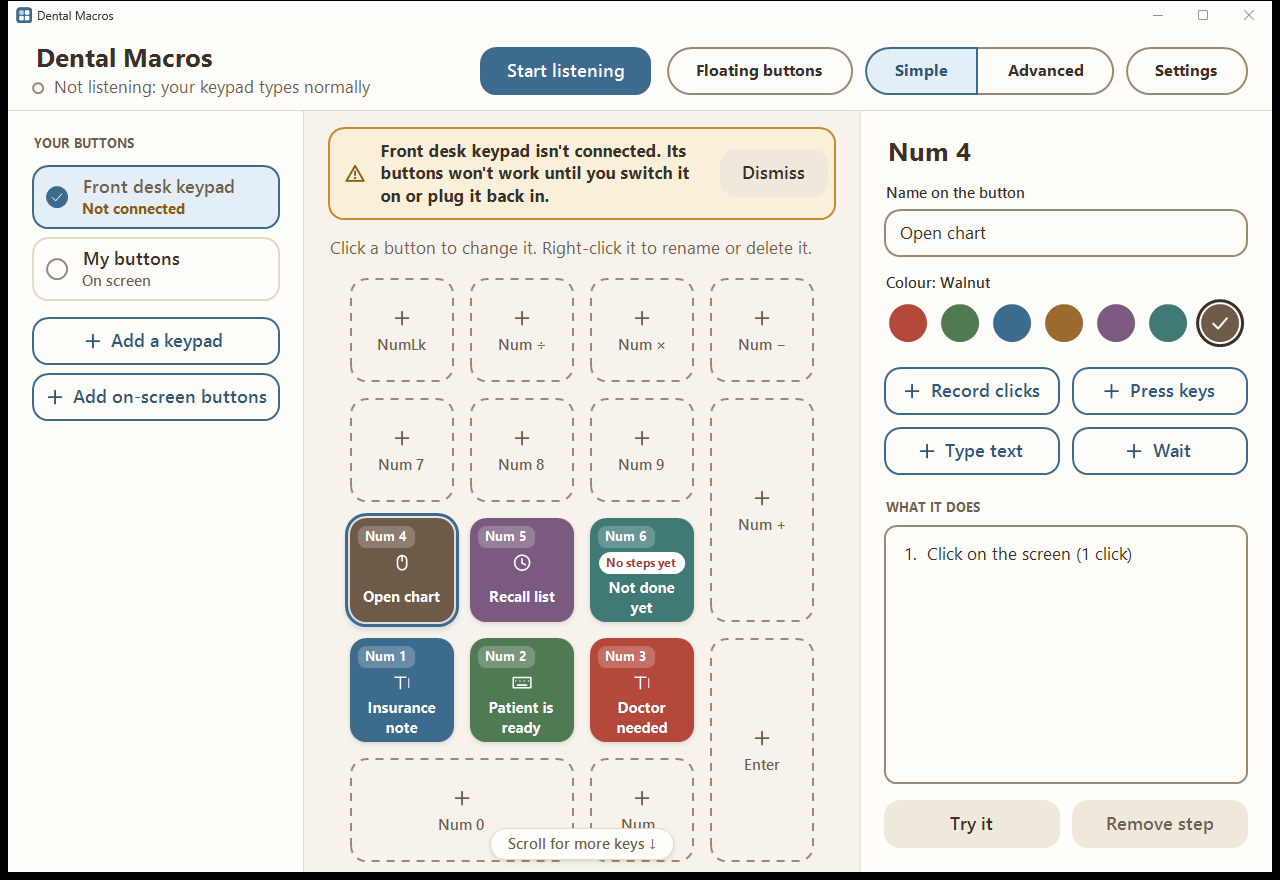
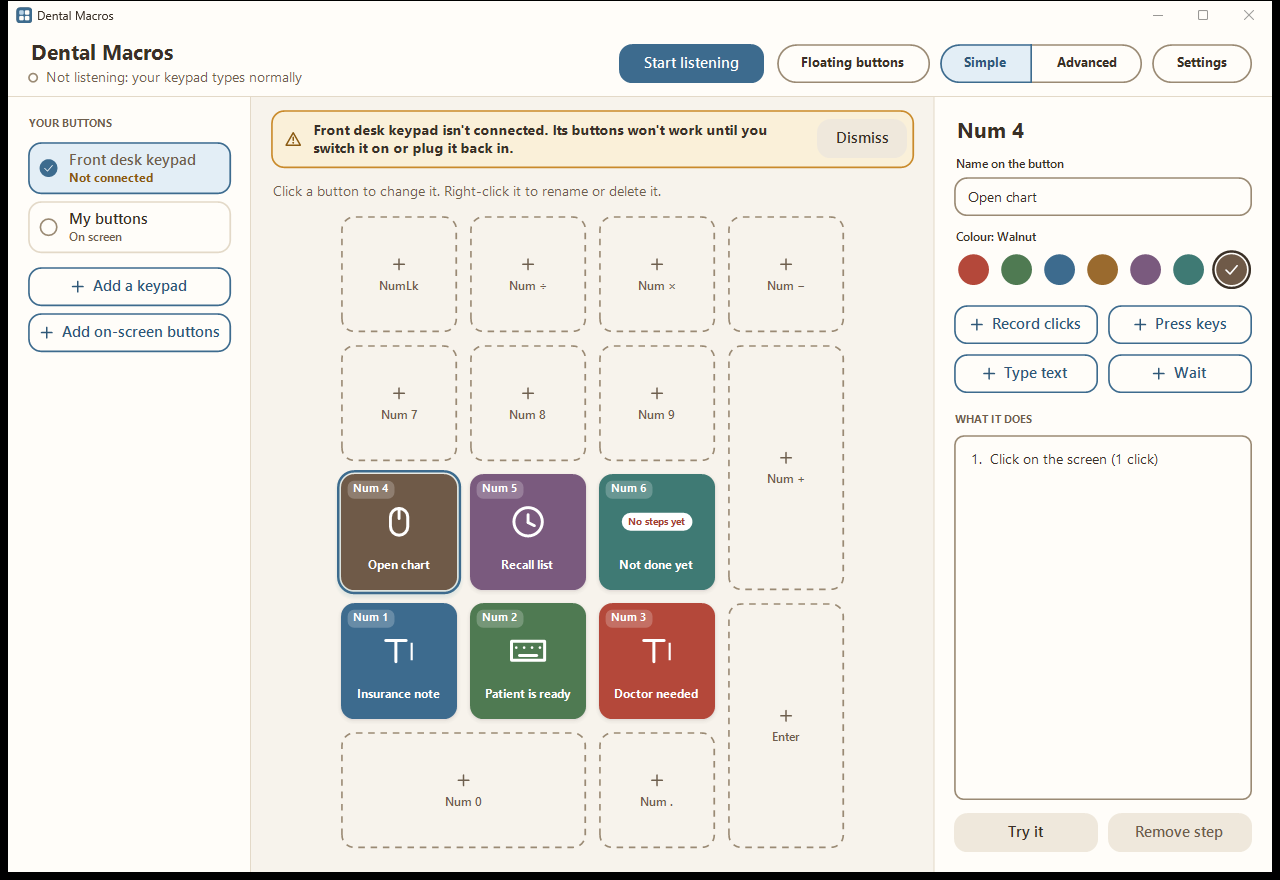
Draw the UI smaller; version 0.9.5 beta
The design system's full sizes read too big on an office PC. The app now
draws them at 82% (kUiSize in src/theme.h), so text and icons are back to
the size they were before the redesign and every gap and button shrinks
with them; the look is unchanged.

- The main window still opens at 1280 x 880, so the keypad gets the room
  and fits without scrolling.
- The floating buttons keep their own 30-46px sizes.
- Key icons are about a third of the key again; key names are smaller,
  and get room for a second line only when they need it.
- README screenshots and docs/REDESIGN.md updated.

Claude-Session: https://claude.ai/code/session_016wSNeBwmZs1RpAEdWAksV8

diff --git a/src/app.cpp b/src/app.cpp
@@ -563,9 +563,15 @@ bool MainWindow::create(HINSTANCE inst, int showCmd) {
 
     // Centre on the primary monitor's work area, and never larger than it -
     // the default size is bigger than a small laptop screen at 150% scaling.
+    // The window opens at its full size even though what's inside is drawn
+    // smaller (kUiSize), so the keypad gets the room.
     RECT work = workAreaNear(nullptr);
-    int w = std::min<int>(S(1280), work.right - work.left);
-    int h = std::min<int>(S(880), work.bottom - work.top);
+    int w = 0, h = 0;
+    {
+        const FullSize fullSize;
+        w = std::min<int>(S(1280), work.right - work.left);
+        h = std::min<int>(S(880), work.bottom - work.top);
+    }
     int sx = work.left + ((work.right - work.left) - w) / 2;
     int sy = work.top + ((work.bottom - work.top) - h) / 2;
 
@@ -1215,7 +1221,7 @@ void MainWindow::layoutDeck() {
     int tileH = (availH - gap * (rows - 1)) / rows;
     // Always as many columns as fit across, though: a key cut off at the
     // side can't be scrolled to.
-    int side = std::max(std::min(S(104), tileW), std::min({tileW, tileH, S(160)}));
+    int side = std::max(std::min(S(92), tileW), std::min({tileW, tileH, S(160)}));
     int gridW = side * cols + gap * (cols - 1);
     const int gridH = side * rows + gap * (rows - 1);
     deckContentH_ = gridH;
@@ -1808,15 +1814,23 @@ void MainWindow::paintTile(Graphics& g, const DeckTile& tile,
         }
     }
 
-    // Top to bottom: the badge row, the icon (36px on a key with room for
-    // it), then two lines of label. On a small key the icon gives way first,
-    // so the name - what the key is for - always fits.
-    const float labelPx = r.Width >= Sf(150) ? 22.0f : r.Width >= Sf(110) ? 17.0f
-                                                                       : 15.0f;
-    const REAL lineH = Sf(labelPx * 1.3f);
+    // Top to bottom: the badge row, the icon (about a third of the key, as
+    // before the redesign), then two lines of label. On a small key the icon
+    // gives way first, so the name - what the key is for - always fits.
+    const float labelPx = r.Width >= Sf(150) ? 17.0f : r.Width >= Sf(110) ? 15.0f
+                                                                       : 14.0f;
+    const REAL lineH = Sf(labelPx * 1.4f);  // Segoe UI needs about 1.33
     const REAL top = r.Y + (kb->softwareOnly ? Sf(12) : Sf(8) + tagH + Sf(4));
-    const REAL room = r.GetBottom() - Sf(6) - lineH * 2 - Sf(4) - top;
-    const REAL isz = std::max(0.0f, std::min(Sf(36), room));
+    // Room for two lines of label only when the name needs them. drawText
+    // pads each side by about a sixth of the text size; measureText doesn't.
+    const std::wstring title = W(b->displayTitle());
+    const int lines = measureText(g, title, labelPx, true).Width + Sf(labelPx) * 0.4f <=
+                              r.Width - Sf(12)
+                          ? 1
+                          : 2;
+    const REAL room = r.GetBottom() - Sf(6) - lineH * lines - Sf(4) - top;
+    const REAL isz =
+        std::max(0.0f, std::min(std::min(r.Width, r.Height) * 0.34f, room));
     RectF iconBox(r.X + (r.Width - isz) / 2, top, isz, isz);
     if (isz < Sf(18)) iconBox = RectF(r.X + r.Width / 2, top, 0, 0);
     const bool unfinished = b->steps.empty() && !b->isDial();
@@ -1853,13 +1867,16 @@ void MainWindow::paintTile(Graphics& g, const DeckTile& tile,
         drawActionIcon(g, "scroll", iconBox, kWhite);
     }
 
-    // MessageButton labels are 22px bold; a key too narrow for that gets a
-    // smaller size, still bold, so two words still fit across it.
-    const REAL labelTop = iconBox.Height > 0 ? iconBox.GetBottom() + Sf(4) : top;
+    // Key labels are bold; a narrow key gets a smaller size so two words
+    // still fit across it.
+    // The "No steps yet" tag can be taller than the room left for an icon;
+    // the name still gets all of its lines.
+    const REAL labelTop =
+        std::max(top, std::min(iconBox.Height > 0 ? iconBox.GetBottom() + Sf(4) : top,
+                               r.GetBottom() - Sf(4) - lineH * lines));
     RectF label(r.X + Sf(6), labelTop, r.Width - Sf(12),
                 r.GetBottom() - Sf(4) - labelTop);
-    drawText(g, W(b->displayTitle()), label, labelPx, kWhite, Align::Center,
-             true, true, true);
+    drawText(g, title, label, labelPx, kWhite, Align::Center, true, true, true);
 }
 
 void MainWindow::paintDragGhost(Graphics& g) {

diff --git a/src/theme.h b/src/theme.h
@@ -50,10 +50,27 @@ struct Theme {
 const Theme& theme();
 
 // DPI. Set once at startup from the window's DPI.
-void setDpiScale(float s);
+//
+// The design system's sizes (17px body, 48px buttons) read large on an office
+// PC, so the app draws them at kUiSize of that: text and icons come out at the
+// size Dental Macros used before the redesign, and every gap and button
+// shrinks with them, so the look stays the same, only smaller. dpiScale(), S()
+// and Sf() all include it.
+constexpr float kUiSize = 0.82f;
+void setDpiScale(float s);   // s = window DPI / 96
 float dpiScale();
 int S(int px);          // scale a design-time pixel value
 float Sf(float px);
+
+// The floating buttons keep their own 30-46px sizes, so they are drawn at the
+// plain DPI scale: S() and Sf() leave kUiSize out while one of these lives.
+struct FullSize {
+    FullSize();
+    ~FullSize();
+    FullSize(const FullSize&) = delete;
+    FullSize& operator=(const FullSize&) = delete;
+    float saved;
+};
 
 COLORREF toColorRef(const Gdiplus::Color& c);
 Gdiplus::Color fromHex(const std::string& hex, const Gdiplus::Color& fallback);

diff --git a/src/theme.cpp b/src/theme.cpp
@@ -11,7 +11,7 @@ using namespace Gdiplus;
 
 namespace ui {
 namespace {
-float g_dpi = 1.0f;
+float g_dpi = kUiSize;
 
 GraphicsPath* roundedPath(const RectF& r, float radius) {
     auto* p = new GraphicsPath();
@@ -144,7 +144,13 @@ const Theme& theme() {
     return t;
 }
 
-void setDpiScale(float s) { g_dpi = (s > 0.1f && s < 8.0f) ? s : 1.0f; }
+float g_rawDpi = 1.0f;
+void setDpiScale(float s) {
+    g_rawDpi = (s > 0.1f && s < 8.0f) ? s : 1.0f;
+    g_dpi = g_rawDpi * kUiSize;
+}
+FullSize::FullSize() : saved(g_dpi) { g_dpi = g_rawDpi; }
+FullSize::~FullSize() { g_dpi = saved; }
 float dpiScale() { return g_dpi; }
 int S(int px) { return (int)std::lround(px * g_dpi); }
 float Sf(float px) { return px * g_dpi; }

diff --git a/src/minideck.cpp b/src/minideck.cpp
@@ -224,6 +224,7 @@ void MiniDeck::clampOnScreen(int& x, int& y, int w, int h) const {
 
 void MiniDeck::relayout() {
     if (!hwnd_) return;
+    const FullSize fullSize;  // the floating buttons keep their own sizes
 
     const int tile = S(place_.tile);
     const int gap = S(kGap);
@@ -371,6 +372,7 @@ void MiniDeck::paintButton(void* graphics, size_t index) {
 }
 
 void MiniDeck::paint(HDC hdc) {
+    const FullSize fullSize;
     RECT rc{};
     GetClientRect(hwnd_, &rc);
     const int w = rc.right, h = rc.bottom;

diff --git a/README.md b/README.md
@@ -21,9 +21,11 @@ it drops the Python and OpenCV dependencies entirely.
 ![The main window in Simple mode: keypads on the left, the keys in the middle, the selected button on the right](docs/screenshot-main.png)
 
 It looks and reads like the other SMEdevelop office apps: warm cream panels, a
-denim main button, seven key colours that keep white text readable, buttons
-and rows at least 48 pixels tall, and plain words that say what each button
-does ("Save step", "Delete button", "Add keypad").
+denim main button, seven key colours that keep white text readable, roomy
+buttons and rows, and plain words that say what each button does ("Save
+step", "Delete button", "Add keypad"). It draws the design system at a
+little over four fifths of its size, so text and icons stay the size they
+were before the redesign.
 
 ![The first step of setup: on my screen, or on a spare keypad](docs/screenshot-setup.png)
 

diff --git a/docs/REDESIGN.md b/docs/REDESIGN.md
@@ -464,6 +464,14 @@ config format (other than how colours are drawn) or actions changes.
 3. **Standard Windows menus**, in their light style, with only the wording
    changed (§3.14, cheaper option).
 4. **App icon recoloured** to denim and cream (§3.15).
+5. **Drawn at 82% (28 October 2026).** After trying it, the full sizes read
+   too big, so the whole app draws the design system at `kUiSize` = 0.82
+   (src/theme.h): body text comes out at 14px, buttons at about 39px tall,
+   which is the text size the app had before the redesign. Every size and
+   gap shrinks together, so the look is unchanged. Exceptions: the main
+   window still opens 1280 x 880, so the keypad gets the room; the floating
+   buttons stay at their own 30–46px; key icons are about a third of the
+   key again, as before the redesign, and key names are 14/12/11px.
 
 ## 7. Status
 
